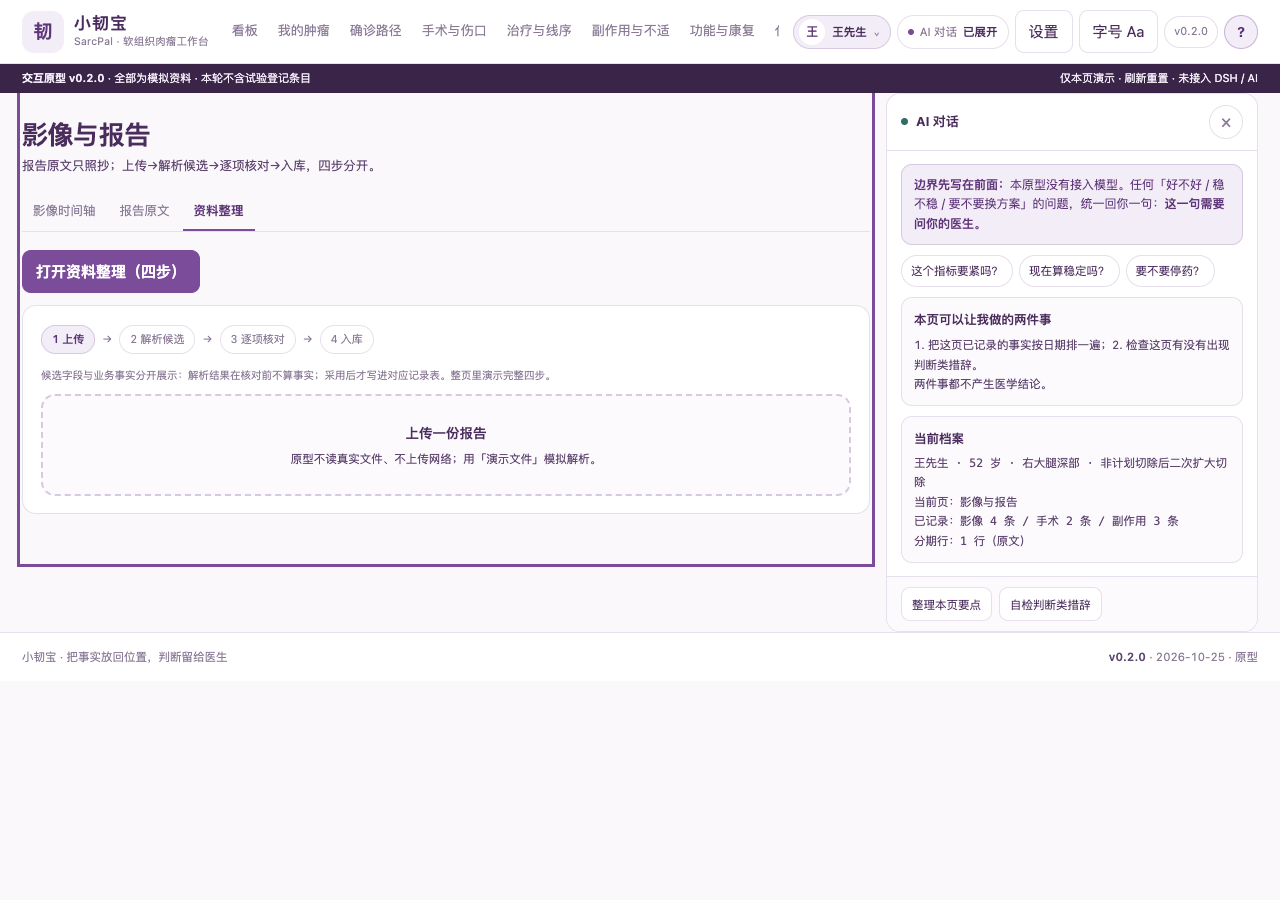
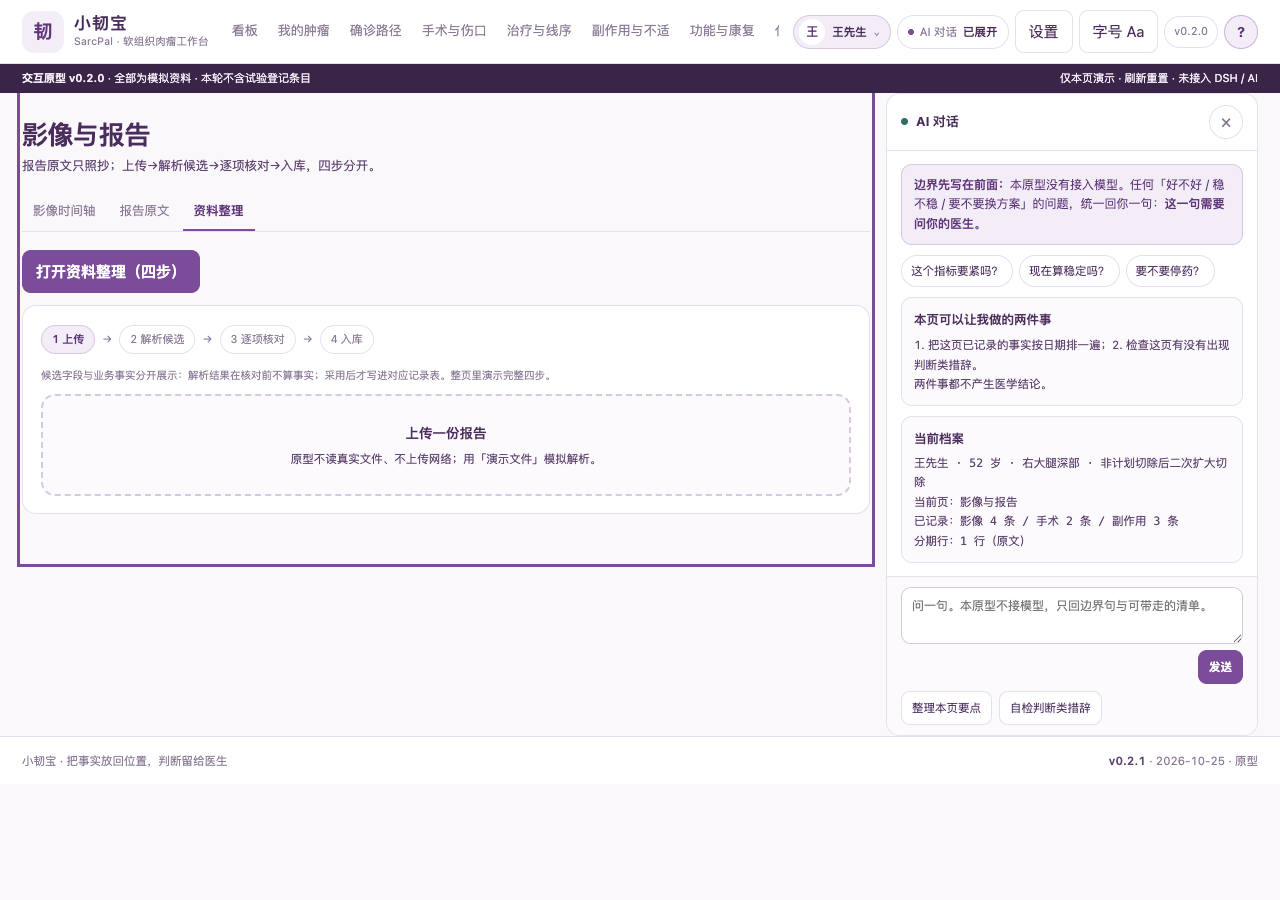
fix(v0.2.1): 顶栏徽章与页脚版本号改由 APP_INFO 渲染，清掉最后两处写死的 v0.2.0
截图复看时发现：index.html:152 的 ver-chip 与 :156 的页脚仍写死 v0.2.0，
而 VERSION / package.json / APP_INFO 都已是 0.2.1。这是同一类漂移的第六、第七处，
第一轮评审只抓到 <title> 那一处。

改法不是把 0.2.0 改成 0.2.1 了事——那只是把下一个漂移推迟。改为渲染时由
APP_INFO.version 覆盖 #ver-chip 与 #proto-ver，页面上不再有写死的版本副本。
以后改版本只需动 APP_INFO + VERSION + package.json 三处。

同时：G1 确认记录 docs/PROTOTYPE-REVIEW.md 填好「被确认对象 / 覆盖与未覆盖 /
待用户决定 5 点」，签认栏留空；25 张截图按新标题重出；两份走查文档补第三轮改动追踪。

验收：probe-interaction 102/102、probe-prototype 28/28

diff --git a/prototypes/v0.2/app.js b/prototypes/v0.2/app.js
@@ -1,5 +1,5 @@
 'use strict';
-/* 小韧宝 SarcPal v0.2.0 · 软组织肉瘤患者工作台交互原型
+/* 小韧宝 SarcPal v0.2.1 · 软组织肉瘤患者工作台交互原型
    全部患者数据为模拟（demo/build-demo-data.mjs 生成）；不读写真实文件、不调用模型或宿主 API。
    三层信息边界：
      ①事实：值 / 日期 / 谁说的 / 报告原文 —— 可写；
@@ -1181,6 +1181,13 @@ function render() {
   if (!main) return;
   main.innerHTML = `<div class="page-enter">${(VIEWS[state.view] || vDashboard)()}</div>`;
   document.title = `小韧宝 SarcPal · ${PAGES.find((p) => p[0] === state.view)[1]} · v${APP_INFO.version}`;
+  /* 版本号单一来源：顶栏徽章与页脚的静态文本也由 APP_INFO 覆盖一次。
+     修 P1-4 时发现 index.html 里还写死两处 v0.2.0——写死的版本号迟早会漂，
+     这里改成渲染时覆盖，改版本只需要动 APP_INFO + VERSION + package.json 三处。 */
+  const chip = document.getElementById('ver-chip');
+  if (chip) chip.textContent = `v${APP_INFO.version}`;
+  const pv = document.getElementById('proto-ver');
+  if (pv) pv.textContent = `v${APP_INFO.version}`;
   renderNav();
   renderProfileChip();
   renderAgent();

diff --git a/prototypes/v0.2/index.html b/prototypes/v0.2/index.html
@@ -149,11 +149,11 @@ html.pv-lock{ overflow: hidden; }
     </button>
     <button type="button" data-action="settings">设置</button>
     <button type="button" id="font-toggle" aria-pressed="false" title="字号：正常 / 大字 / 特大">字号 Aa</button>
-    <button type="button" class="ver-chip" id="ver-chip" data-action="about" aria-label="关于小韧宝：版本与边界">v0.2.0</button>
+    <button type="button" class="ver-chip" id="ver-chip" data-action="about" aria-label="关于小韧宝：版本与边界">v0.2.1</button>
   </div>
 </header>
 <div class="prototype-bar">
-  <span><b>交互原型 v0.2.0</b> · 全部为模拟资料 · 本轮不含试验登记条目</span>
+  <span><b>交互原型 <span id="proto-ver">v0.2.1</span></b> · 全部为模拟资料 · 本轮不含试验登记条目</span>
   <span>仅本页演示 · 刷新重置 · 未接入 DSH / AI</span>
 </div>
 

diff --git a/docs/PROTOTYPE-REVIEW.md b/docs/PROTOTYPE-REVIEW.md
@@ -1,17 +1,56 @@
 # HTML交互原型确认记录
 
-状态：待制作/预览/用户确认。未填入真实依据前不可标已确认。
+状态：**原型已交付，等待用户确认（G1 未签认）**。未填入真实依据前不可标已确认。
+本文件由构建方填写「交给用户看的那份东西」；签认栏只能由用户填。
 
-- HTML实际路径、版本与SHA-256：
-- 当前SPEC/场景/数据模型版本：
-- 预览环境/容器尺寸/日期；无法预览及限制：
-- 模拟数据/MockAdapter与真实功能界限：
-- 核心任务、二级页、弹窗/状态、回顾/导出覆盖与未覆盖项：
-- 版本号显示与一致性（P1）：顶栏/页脚/关于三处文本；`VERSION` 与校验脚本输出
-- 一图秀核对（若涉及）：`docs/ONE-CHART-SPEC.md` 的 C1–C12 逐条结果
-- 用户反馈及修订：
+## 一、被确认的对象
 
-| 模块/功能ID | 对应HTML/行为 | 实际走查证据 | 用户明确确认依据/人/日期 | 未确认项 | 允许实施的范围 |
+| 项 | 内容 |
+| --- | --- |
+| HTML 实际路径 | `prototypes/v0.2/index.html`（`file://` 双击可开，不需要起服务） |
+| 版本 | **0.2.1**（`VERSION` / `package.json` / `app.js:APP_INFO` 三处一致；顶栏徽章与页脚由 `APP_INFO` 渲染时覆盖，已无写死副本） |
+| 提交 | `acf7d39`（含 P0-1 修复） |
+| SHA-256 | `index.html` `1361052a…e8048876` ／ `app.js` `5dde457e…152206b01` ／ `demo-data.js` `fce2af8a…9ea995` ／ `primer-data.js` `beb4bb9f…14b8e83d` |
+| 预览环境 | macOS arm64 · Chrome 145 · 视口 1280 / 1024 / 768 / 390 四档；截图见 `docs/shots/`（25 张） |
+| 模拟数据与真实功能界限 | **全部为虚构演示档案**（A 肢体原发 / B 腹膜后复发），由 `demo/build-demo-data.mjs` 单一来源生成；不读写真实文件、不调用模型或宿主 API、不连数据库 |
+| 当前 SPEC / 场景 / 数据模型版本 | `SPEC.md` v0.1 · `SCENARIOS.md` v0.1 · `SCHEMA` 冻结于 `7641895`（27 表） |
+
+## 二、覆盖与未覆盖
+
+**覆盖（有自动断言，不靠人眼）**
+
+| 层 | 数量 | 命令 |
+| --- | --- | --- |
+| 交互红线 HVT X1–X4（含 IP1–IP10 落点） | **102/102** | `NODE_OPTIONS= node scripts/probe-interaction.mjs` |
+| 原型四必查件（排版 / 字号三档 / 窄宽 / 一图秀 C1–C12） | **28/28** | `NODE_OPTIONS= node scripts/probe-prototype.mjs` |
+| 整页视图 A1–A10（返回/关闭两层、Esc 各退一层、焦点与滚动还原） | **13/13** | `NODE_OPTIONS= node scripts/probe-page-view.mjs` |
+| 疾病概要「?」（四段齐全、每段有来源、趋势段无禁止词） | **9/9** | `NODE_OPTIONS= node scripts/probe-disease-primer.mjs` |
+| 闸门自测（注入缺陷必须被抓到） | 注入 4 → 命中 **4/4** | 加 `--self-test` |
+
+页面结构：12 个一级页 / 36 个页签，**可达 37/37、孤儿 0**（X1 集合差）。
+
+**未覆盖（明确不按已实现计）**
+
+- M6 开发版未开工：无 `lib/layout.js`、无 `lib/version.js`、无单测、检查链未挂 M6 四项（`check-conformance` 22/30，8 项失败全在此范围）。
+- 装机（M7）、市场投稿、push 均未做。
+- 指南三层（G1 出处 / G2 节奏 / G3 分级）**都没做**：CSCO 2025 原件未取得，NCCN / AJCC / WHO 均未取得原件，页码一律待核。
+- 私密内容三出口（`visibility` + 摘要 + 导出）**未做**，见 `docs/SPEC.md` 对应一节。
+- 患者/家属访谈 **0 次**，场景全为假设。
+- 768 宽逐页签实测只做了抽样，未全量。
+
+## 三、需要用户决定的点
+
+1. **四核心模块的取舍**：`docs/CORE-MODULES.md` 按三条判据筛出「病理与分型 / 手术与切缘 / 治疗线序与放疗窗口 / 功能与康复」，把「影像与随访」「生活与照护」降为支撑模块。是否认可这个取舍？
+2. **看板标题口径**：现在写「二次扩大切除与术后放疗已记录，进入复查」（A 档案），只讲「在做什么 + 你能记什么」。原结论（复发 / 不可切除）移入 `meta` 与确诊路径，带日期与出处。是否同意这个写法？
+3. **分期空态两种文案**：腹膜后/腹腔等无分期组的部位写「该部位 AJCC 8 未定义分期组」，其余写「未回报」。是否合适？
+4. **TESS 不算总分**：只存逐题原始作答，不给分、不做趋势。是否接受？
+5. 是否进入 M6（开发版移植）。
+
+## 四、签认（用户填写）
+
+| 模块 / 功能 ID | 对应 HTML / 行为 | 实际走查证据 | 用户明确确认依据 / 人 / 日期 | 未确认项 | 允许实施的范围 |
 | --- | --- | --- | --- | --- | --- |
+| — | — | — | **待填写** | — | — |
 
-只确认对应版本/模块，新增/重大交互变更重新展示；确认不代表服务接通、数据库冻结或业务验收通过。实际数据模型/API复核后实现，参见docs/14-HTML-AND-DATA-CONTRACT.md。
+只确认对应版本 / 模块，新增或重大交互变更需重新展示；确认不代表服务接通、数据库冻结或业务验收通过。
+实际数据模型 / API 复核后实现，见 `docs/14-HTML-AND-DATA-CONTRACT.md`。

diff --git a/docs/INTERACTION-DESIGN.md b/docs/INTERACTION-DESIGN.md
@@ -215,3 +215,4 @@
 | --- | --- | --- |
 | 2026-10-25 | 补写本文（按已实现原型清点 A/B/C 三条路径、37 状态覆盖矩阵、CRUD 双通道、IP1–IP10） | 全文 |
 | 2026-10-25 | 第二轮：修完 §六 第 2–8 条（页签归零 / TESS 29 题 / 写入口收进「⋯ 更多」/ 手术表单 6 字段 + 数字键盘 / 看板补手术与功能入口 / AI 输入框 / 更正版本链）；表 3 的 IP6–IP8、IP10 转「过」，IP9 记「部分过」；新增 §七 探针口径修正（X3e 两处假红） | §三、§四、§六、§七 |
+| 2026-10-25 | 第三轮：评审 P0-1 修复（新增 `scanJudge()` 三桶判定 + `X3i` 全页扫描 + 自测第 4 个缺陷）；补 X3j–X3p 八条癌种断言，102/102；§3.2 现状表改「现在/本轮前」两列 | §三、§四、§五、§六、§七 |

diff --git a/docs/HVT-X-WALKTHROUGH.md b/docs/HVT-X-WALKTHROUGH.md
@@ -253,3 +253,4 @@ FAIL  89/102
 | --- | --- | --- |
 | 2026-10-25 | 首版：X1–X4 走查证据、自测结果、修复顺序 | 全文 |
 | 2026-10-25 | 第二轮：7 条修复全部落地，X3 由 0 转 1，正常跑 94/94；§四 改写为逐条结果 + 改法，X3e 两处假红记入 `INTERACTION-DESIGN.md` §七 | §一、§四、§六、§七、§八 |
+| 2026-10-25 | 第三轮：P0-1 修复后复跑 102/102；自测加第 4 个注入缺陷（伪装看板标题为判读结论），4/4 命中；§六 记反向对照抓到的那次假绿（`ATTRIB_RE` 含裸「记录」） | §一、§四、§六 |
